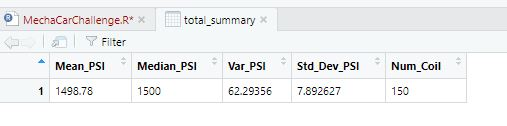
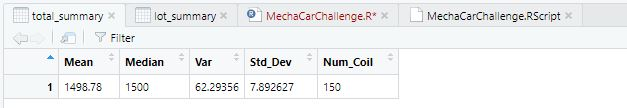
New README

diff --git a/README.md b/README.md
@@ -1,1 +1,33 @@
 # MechaCar_Statistical_Analysis
+
+## Linear Regression to Predict MPG
+
+#### Which variables/coefficients provided a non-random amount of variance to the mpg values in the dataset?
+Vehicle Length and Vehicle Ground Clearance
+
+#### Is the slope of the linear model considered to be zero? Why or why not?
+The slope of the model is not zero because the value p-value is 5.35e-11 which is very small than the significance level of 0.05%.
+
+#### Does this linear model predict mpg of MechaCar prototypes effectively? Why or why not?
+The linear model predicts (r-squared value = 71%) of the mpg predictions. 
+
+![](https://github.com/c3crocks/MechaCar_Statistical_Analysis/blob/main/Images/Part1.JPG)
+
+
+
+## Summary Statistics on Suspension Coils
+
+#### Total Summary
+
+![](https://github.com/c3crocks/MechaCar_Statistical_Analysis/blob/main/Images/Part2-Total_Summary.JPG)
+
+#### Lot Summary
+
+![](https://github.com/c3crocks/MechaCar_Statistical_Analysis/blob/main/Images/Part2-lot_summary.JPG)
+
+
+
+#### The design specifications for the MechaCar suspension coils dictate that the variance of the suspension coils must not exceed 100 pounds per square inch. Does the current manufacturing data meet this design specification for all manufacturing lots in total and each lot individually? Why or why not?
+
+The entire population data variance is 62.29 PSI which is within 100 PSI as per design specifications. 
+However, when analyzing seperately lot 3 falls outside of the specification because the variance is 170.29 PSI. Lot 1 and Lot 2 are within limits.
